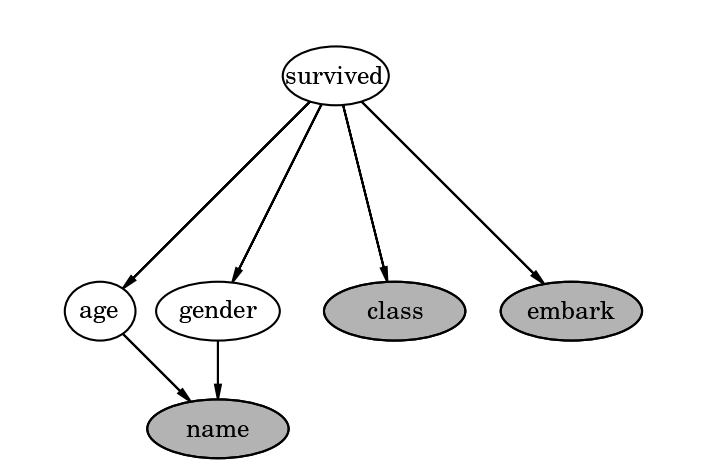
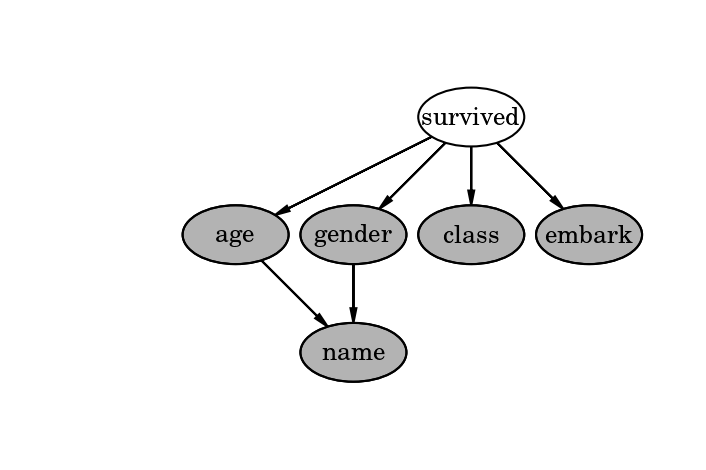
cleanups for karthick

diff --git a/scripts/ex4a-titanic-daft-pgm.py b/scripts/ex4a-titanic-daft-pgm.py
@@ -4,13 +4,27 @@ rc("text", usetex=True)
 
 import daft
 
-pgm = daft.PGM([5,4], origin=[1.15, 0.65])
-pgm.add_node(daft.Node("survived", r"survived", 4, 4, aspect=1.8))
-pgm.add_node(daft.Node("age", r"age", 2, 2, aspect=1.2, observed=True))
-pgm.add_node(daft.Node("gender", r"gender", 3, 2, aspect=2.1, observed=True))
-pgm.add_node(daft.Node("class", r"class", 4.5, 2, aspect=2.4, observed=True))
-pgm.add_node(daft.Node("embark", r"embark", 6, 2, aspect=2.4, observed=True))
-pgm.add_node(daft.Node("name", r"name", 3, 1, aspect=2.4, observed=True))
+# instantiate a pgm object
+pgm = daft.PGM([6,4], origin=[0, 1])
+
+
+# create the nodes
+survived = daft.Node("survived", r"survived", 4, 4, aspect = 1.8)
+age = daft.Node("age", r"age", 2, 3, aspect = 1.8)
+gender = daft.Node("gender", r"gender", 3, 3, aspect = 1.8, observed=True)
+tclass = daft.Node("class", r"class", 4, 3, aspect = 1.8,observed=True)
+embark = daft.Node("embark", r"embark", 5, 3, aspect = 1.8, observed=True)
+name = daft.Node("name", r"name", 3, 2, aspect = 1.8, observed=True)
+
+# add the nodes to pgm object
+pgm.add_node(survived)
+pgm.add_node(age)
+pgm.add_node(gender)
+pgm.add_node(tclass)
+pgm.add_node(embark)
+pgm.add_node(name)
+
+# add edges between nodes
 pgm.add_edge("survived", "age")
 pgm.add_edge("survived", "gender")
 pgm.add_edge("survived", "class")
